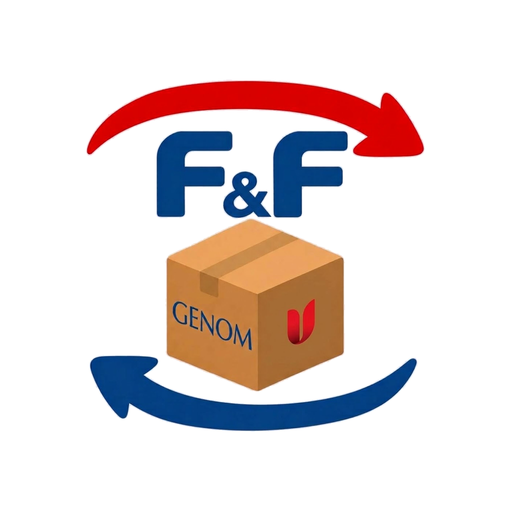
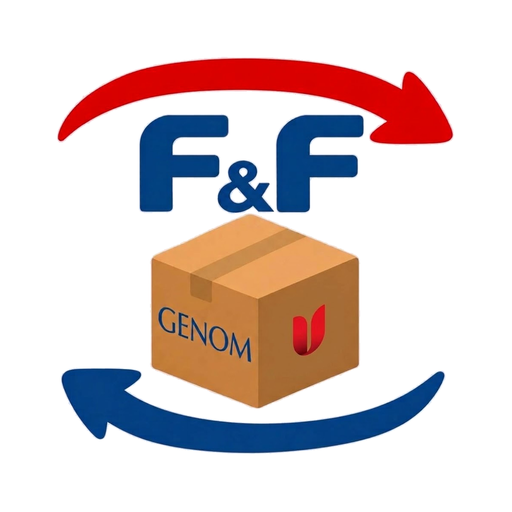
Ícone: desenho preenchendo até as bordas
Claude-Session: https://claude.ai/code/session_01CZFmzCaMnCg1pR5pQDsF27

Changed region(s): [[0.0938, 0.0938, 0.9062, 0.9062]]

diff --git a/index.html b/index.html
@@ -9,9 +9,9 @@
 <meta name="apple-mobile-web-app-capable" content="yes">
 <meta name="apple-mobile-web-app-status-bar-style" content="default">
 <meta name="apple-mobile-web-app-title" content="Estoque FFSP">
-<link rel="manifest" href="manifest.json?v=8">
-<link rel="apple-touch-icon" href="icon-180.png?v=8">
-<link rel="icon" href="icon-192.png?v=8">
+<link rel="manifest" href="manifest.json?v=9">
+<link rel="apple-touch-icon" href="icon-180.png?v=9">
+<link rel="icon" href="icon-192.png?v=9">
 <link rel="stylesheet" href="styles.css">
 <script src="https://cdn.jsdelivr.net/npm/xlsx@0.18.5/dist/xlsx.full.min.js" defer></script>
 </head>

diff --git a/sw.js b/sw.js
@@ -1,5 +1,5 @@
 // Service worker: notificações com o app fechado + funcionamento básico offline
-const CACHE = "estoque-v22";
+const CACHE = "estoque-v23";
 const ARQUIVOS = ["./", "./index.html", "./app.js", "./styles.css", "./config.js", "./manifest.json", "./icon-192.png"];
 
 self.addEventListener("install", (e) => {
